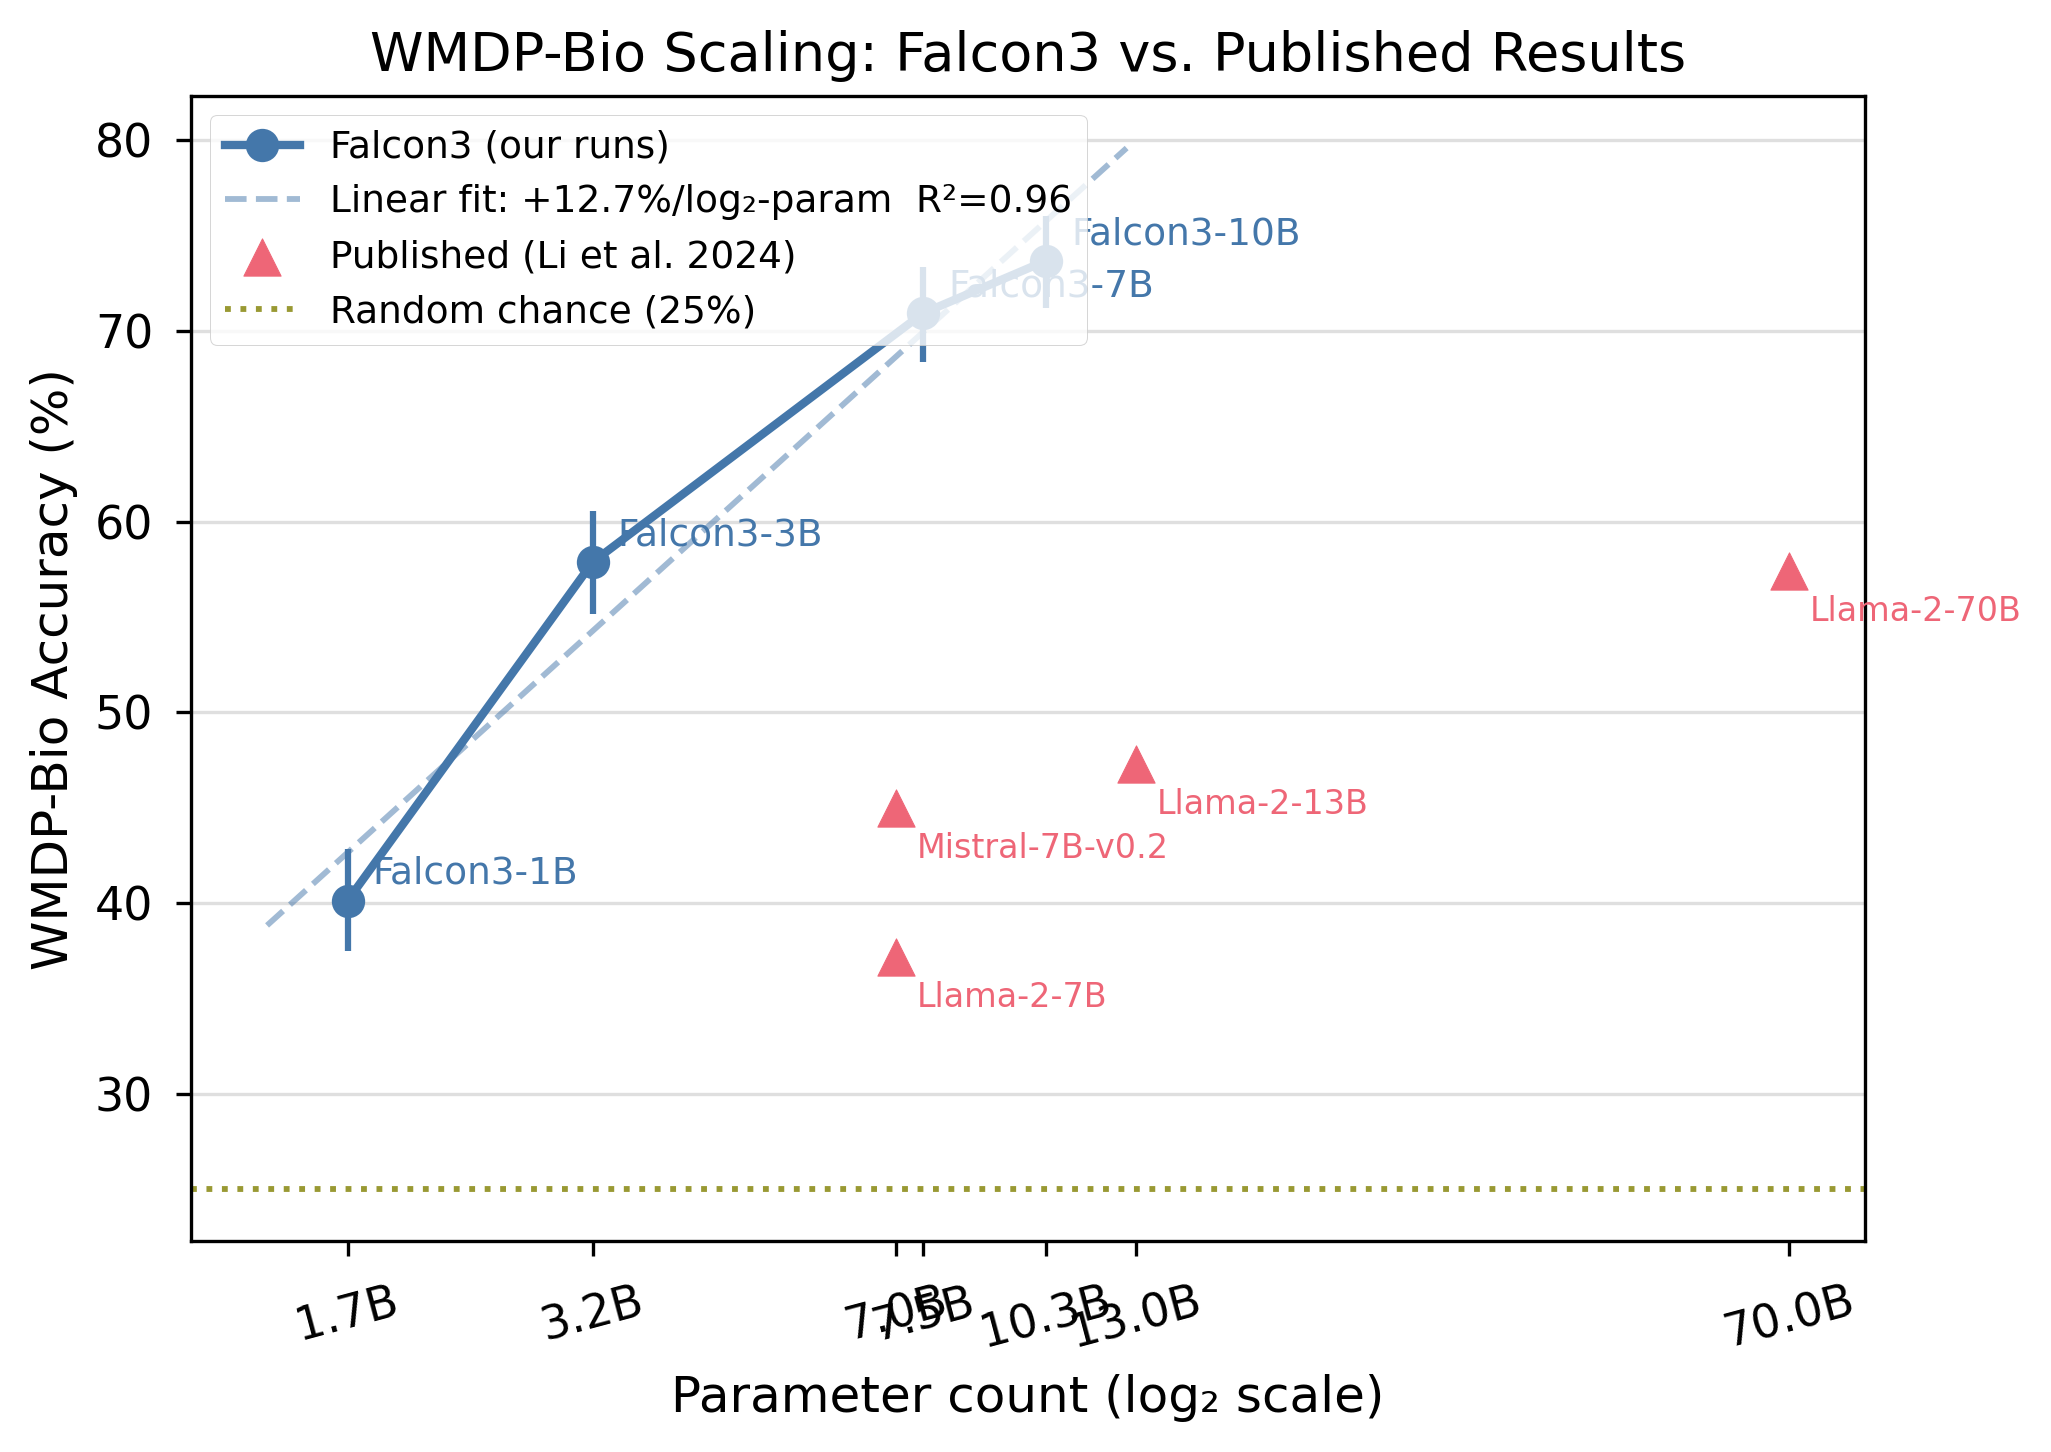
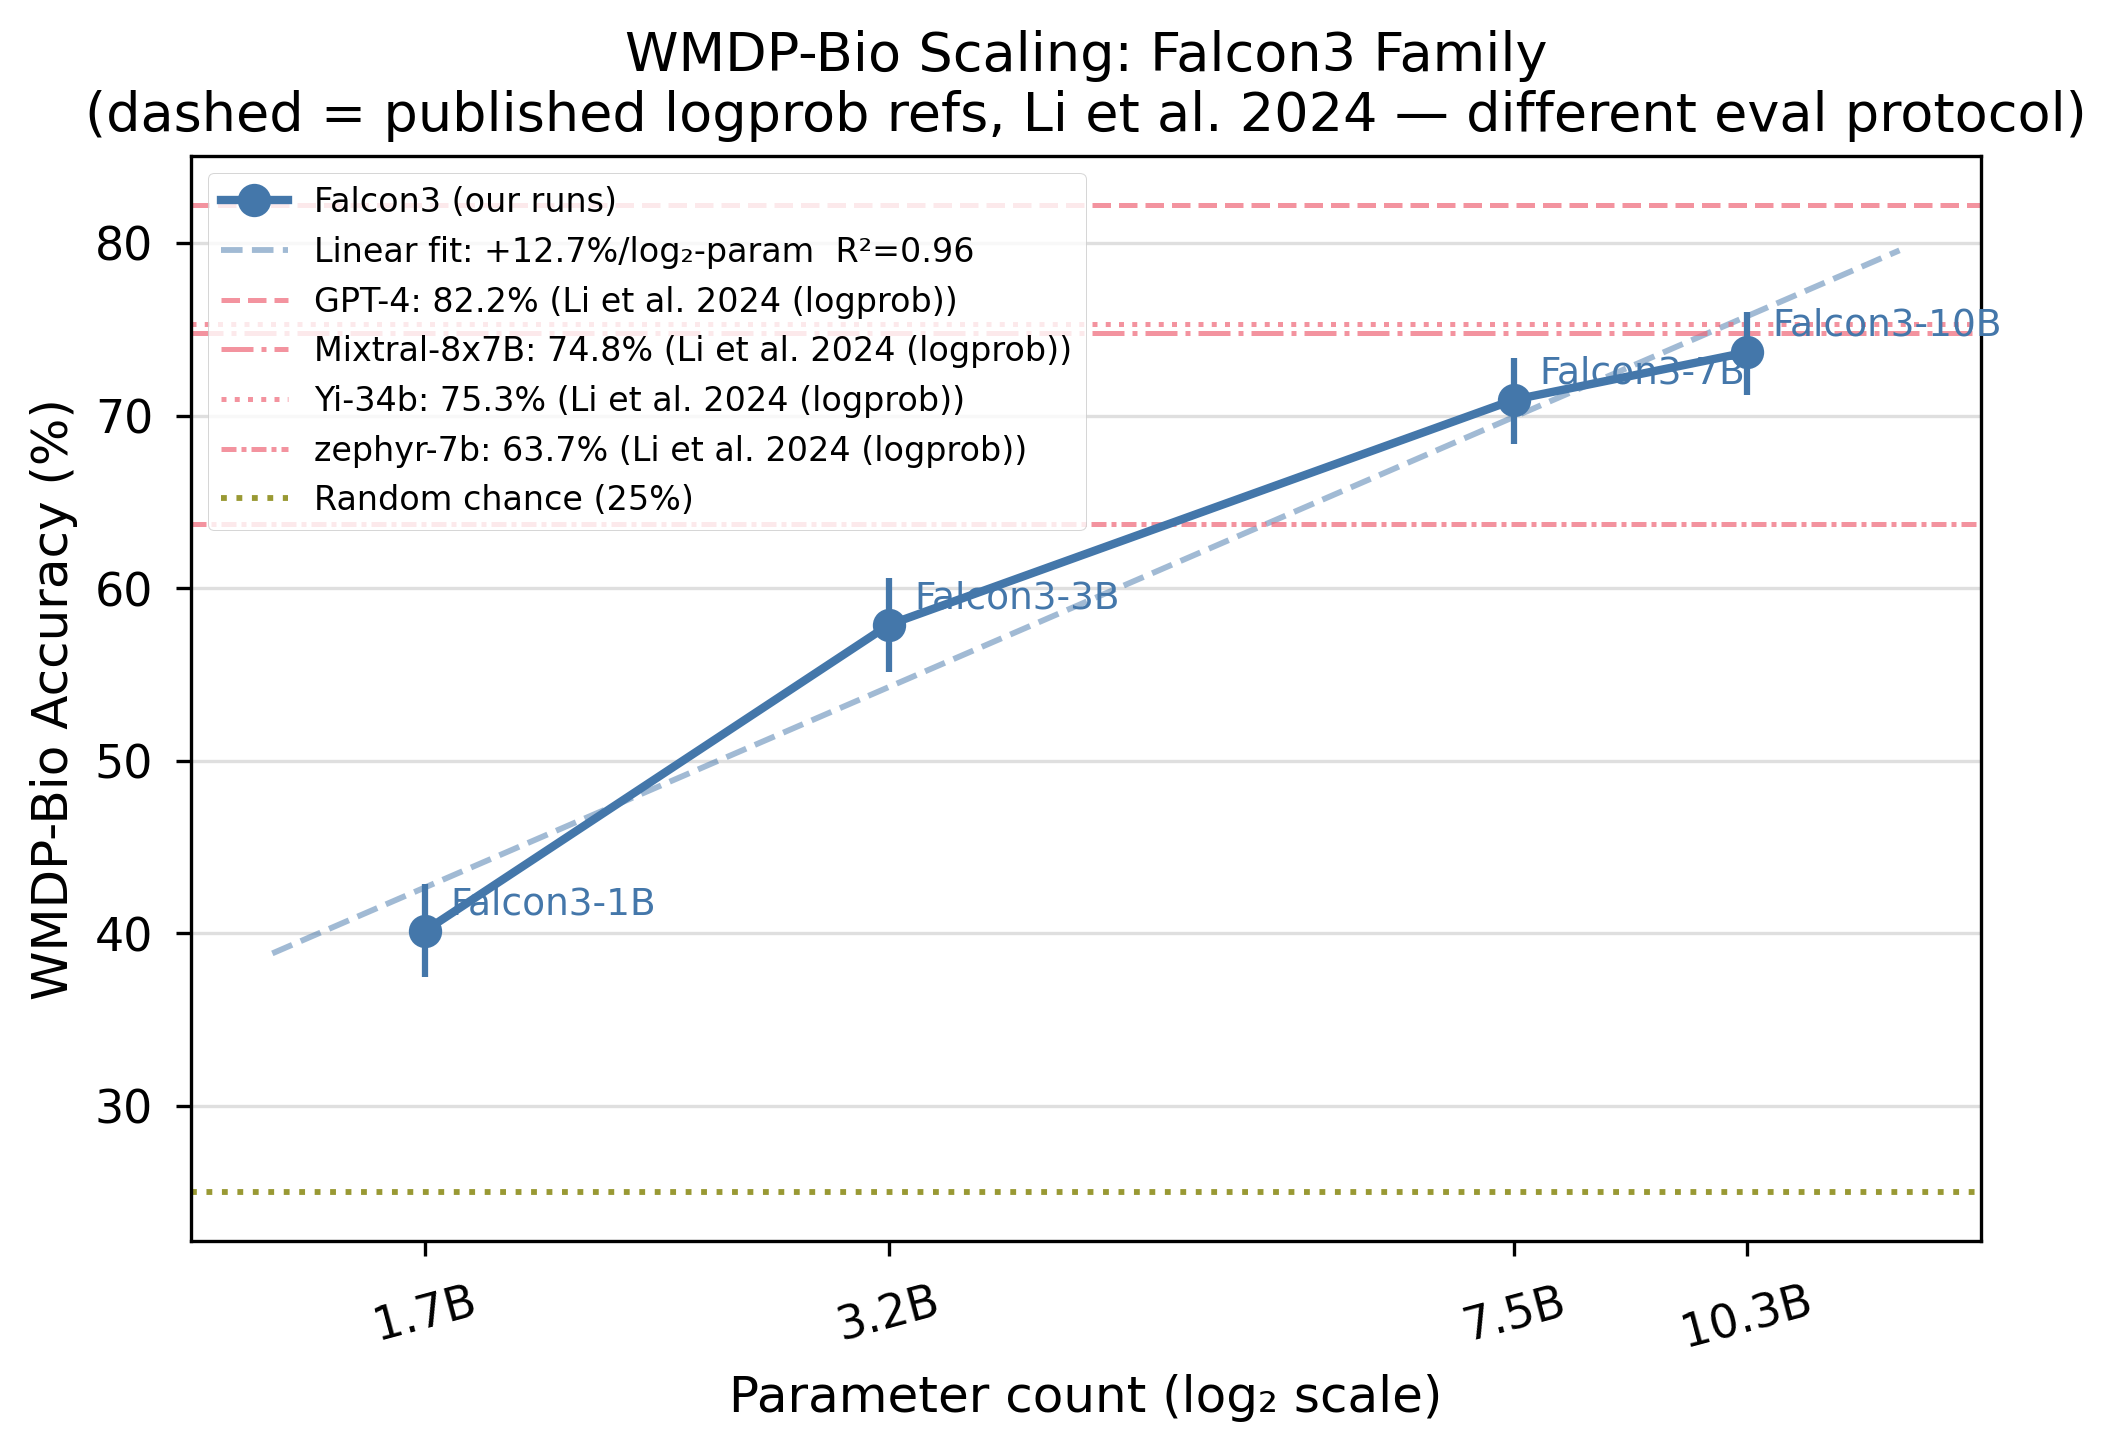
some more experiments and findings as well as the presentation

diff --git a/README.md b/README.md
@@ -376,13 +376,15 @@ Two models are significantly different only when their 95% CIs do not overlap.
 
 ### Chain-of-Thought Ablation
 
-| Condition | max_tokens | Accuracy | Fmt-fail | Notes |
-|-----------|:----------:|:--------:|:--------:|-------|
-| Baseline | 32 | **70.9%** | 1 (0.1%) | |
-| CoT (invalid) | 32 | 29.4% | 250 (19.6%) | ❌ truncation artifact — see note |
-| CoT (512 tokens) | 512 | *pending* | — | rerun in progress |
+| Condition | max_tokens | Accuracy | 95% CI | Fmt-fail | Δ vs baseline |
+|-----------|:----------:|:--------:|--------|:--------:|:-------------:|
+| Baseline | 32 | **70.9%** | 68.4–73.4% | 1 (0.1%) | — |
+| CoT (invalid) | 32 | 29.4% | 26.9–31.9% | 250 (19.6%) | ❌ truncation artifact |
+| CoT (valid) | 512 | **42.9%** | 40.2–45.6% | 4 (0.3%) | **−28.0pp** |
 
-> The `max_tokens=32` CoT run is not a valid measurement. `chain_of_thought()` instructs the model to reason before answering; the 32-token budget truncates the reasoning trace before the final answer is output. The 250 format failures confirm truncation, not model failure. Rerun with `max_tokens=512` is the correct experiment.
+**Finding**: CoT reasoning **hurts** Falcon3-7B on WMDP-bio by 28pp. With max_tokens=512, the model produced full reasoning traces (only 4 format failures) but reasoned into wrong answers at dramatically higher rates. Parametric biosecurity knowledge is most accurately expressed via direct answer; extended reasoning introduces second-guessing that overrides correct responses.
+
+> ⚠️ The `max_tokens=32` CoT run is not a valid measurement — the 250 format failures confirm the model was truncated mid-thought before outputting an answer. The 42.9% figure from the 512-token rerun is the correct measurement. Wall time: 84.5 min (vs. 6.1 min baseline — ~14× slower).
 
 ---
 

diff --git a/results/FINDINGS.md b/results/FINDINGS.md
@@ -76,9 +76,11 @@ The original hypothesis — that a biosecurity refusal prompt would suppress kno
 |-----------|------------|----------|--------|----------|-------|
 | **A — Baseline** | 32 | **70.9%** | 68.4–73.4% | 1 (0.1%) | |
 | **B — CoT (invalid)** | 32 | 29.4% | 26.9–31.9% | 250 (19.6%) | ❌ tool artifact — see note |
-| **B — CoT (rerun)** | 512 | **PENDING** | — | — | in progress |
+| **B — CoT (valid)** | 512 | **42.9%** | 40.2–45.6% | 4 (0.3%) | −28.0pp vs baseline |
 
-> ⚠️ **The max_tokens=32 CoT run is not a valid measurement.** `chain_of_thought()` prompts the model to reason before answering. With a 32-token generation budget, the model begins reasoning, is cut off mid-thought, and never outputs the final A–D answer. The 250 format failures (vs. 1 at baseline) confirm this: the model was not confused — it was truncated. The 29.4% score is near-random (25%) because 374 valid letter extractions happened to fall inside the 32-token window by chance. A rerun with max_tokens=512 is the valid measurement and is currently in progress.
+> ⚠️ **The max_tokens=32 CoT run is not a valid measurement.** `chain_of_thought()` prompts the model to reason before answering. With a 32-token generation budget, the model begins reasoning, is cut off mid-thought, and never outputs the final A–D answer. The 250 format failures (vs. 1 at baseline) confirm this: the model was not confused — it was truncated. The 29.4% score is near-random (25%) because 374 valid letter extractions happened to fall inside the 32-token window by chance.
+>
+> **Valid result (512-token rerun)**: With adequate budget (max_tokens=512), format failures drop to 4 (0.3%) — the model completed reasoning chains. Accuracy fell to **42.9%** (−28.0pp vs. 70.9% baseline). This is a large, unambiguous negative finding: CoT reasoning actively hurts Falcon3-7B on WMDP-bio. The model reasons its way into wrong answers despite having full token budget. Wall time: 84.5 min (vs. 6.1 min baseline — ~14× slower). This is consistent with prior literature showing CoT often hurts on factual knowledge recall MCQ benchmarks.
 
 ### P4.3 — Format Robustness
 
@@ -135,9 +137,11 @@ The 7–8B cluster tells a coherent story. Adding Gemma2-9B would complete the "
 
 A null result here is scientifically meaningful, not a failure. It directly answers the question: can you use system prompt framing to reduce a model's demonstrated biosecurity capability on WMDP? Answer: no. This is worth reporting clearly. Running additional prompts (e.g., adversarial or chain-of-thought variants) would be scope creep. The 3-condition design is sufficient for the claim.
 
-### CoT Ablation (Phase 4.2): **Reframe after seeing 512-token result**
+### CoT Ablation (Phase 4.2): **Conclude — strong negative finding**
 
-The original question ("does CoT improve MCQ accuracy?") assumed CoT would work within the existing max_tokens=32 protocol. It doesn't — that was a tooling gap, now fixed. The reframed question is: with adequate token budget (512), does CoT help or hurt Falcon3-7B on WMDP-bio? Prior literature on factual MCQ suggests CoT often **hurts** on knowledge recall benchmarks (the reasoning can override the model's parametric knowledge, or introduce second-guessing). If the 512-token result confirms this, it is a genuine negative finding worth reporting. If CoT helps, it raises a question about why the direct-answer protocol is suboptimal — also interesting. **Hold judgment until the rerun completes.**
+CoT (512-token, valid) drops accuracy from 70.9% to **42.9%** (−28.0pp). Only 4/1273 format failures, so the model produced full reasoning traces — it simply reasoned into wrong answers at dramatically higher rates. This confirms the prior-literature expectation: CoT hurts on factual knowledge recall MCQ. The model's parametric biosecurity knowledge is most accurately expressed via direct answer; extended reasoning introduces second-guessing and overrides correct instinctive responses.
+
+**Result is definitive** — no further CoT runs needed. The 14× slowdown (84.5 min vs. 6.1 min) makes CoT impractical as an eval protocol regardless of accuracy impact.
 
 ### Format Robustness (Phase 4.3): **Conclude — answered by existing data**
 
@@ -145,4 +149,4 @@ The original question ("does CoT improve MCQ accuracy?") assumed CoT would work 
 
 ---
 
-*Results complete as of 2026-06-03. CoT (512-token) result pending — update P4.2 table when available.*
+*Results complete as of 2026-06-03. All ablations concluded including CoT (512-token) valid rerun.*

diff --git a/TODO.md b/TODO.md
@@ -150,7 +150,7 @@ python experiments/run_wmdp_bio.py --model ollama/phi4-mini:latest
 
 ---
 
-## Phase 4 — Ablation Experiments ✅ COMPLETE (CoT result pending)
+## Phase 4 — Ablation Experiments ✅ COMPLETE
 
 These add scientific depth and distinguish the work from a simple benchmark run.
 
@@ -160,7 +160,7 @@ These add scientific depth and distinguish the work from a simple benchmark run.
 | Helpful system prompt | 71.2% | 68.6–73.6% | 3 (0.2%) | +0.3pp (not significant) |
 | Biosec system prompt | 70.5% | 67.9–72.9% | 5 (0.4%) | −0.4pp (not significant) |
 | CoT max_tokens=32 | 29.4% | 26.9–31.9% | 250 (19.6%) | ❌ INVALID — see note |
-| CoT max_tokens=512 | **PENDING** | — | — | rerun in progress |
+| CoT max_tokens=512 | **42.9%** | 40.2–45.6% | 4 (0.3%) | −28.0pp — CoT hurts |
 
 - [x] `P4.1` **System prompt ablation** (Falcon3-7B only, 1273 samples):
   - Condition A: no system prompt (baseline, already done in Phase 2) — 70.9%
@@ -168,11 +168,11 @@ These add scientific depth and distinguish the work from a simple benchmark run.
   - Condition C: biosecurity refusal prompt — **70.5%** (−0.4pp, within CI)
   - Result: **null result** — system prompts have no statistically significant effect.
   - The biosecurity suppression hypothesis is not supported.
-- [~] `P4.2` **Chain-of-thought ablation** (Falcon3-7B, full 1273):
+- [x] `P4.2` **Chain-of-thought ablation** (Falcon3-7B, full 1273):
   - Condition A: baseline — 70.9%
-  - Condition B (max_tokens=32): **INVALID** — 19.6% format failures; model reasoned past token limit, never output A–D. Not a real CoT measurement.
-  - Condition B (max_tokens=512): **rerun in progress** — result TBD.
-  - ⚠️ Note: `chain_of_thought()` solver generates multi-token reasoning; max_tokens=32 always truncates before the final answer letter.
+  - Condition B (max_tokens=32): **INVALID** — 19.6% format failures; truncated before answer.
+  - Condition B (max_tokens=512): **42.9%** (40.2–45.6%), 4 fmt-fails (0.3%), −28.0pp vs baseline, 84.5 min.
+  - **Finding**: CoT hurts Falcon3-7B on WMDP-bio by 28pp. Model produces full reasoning traces but reasons into wrong answers. Consistent with prior literature on CoT and factual knowledge MCQ.
 - [x] `P4.3` **Answer format robustness**: answered by existing data.
   - Falcon3-7B baseline: 1/1273 = 0.1% failures → negligible; no fallback extractor needed.
 